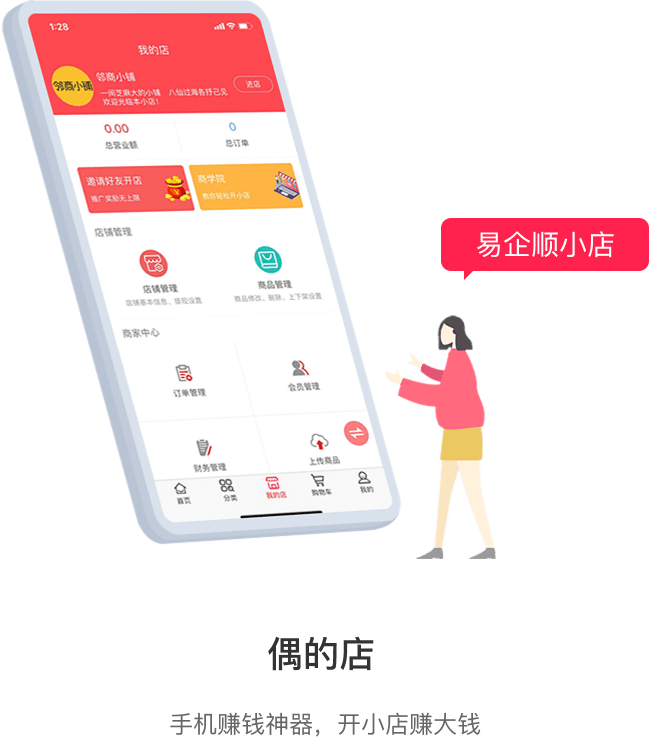
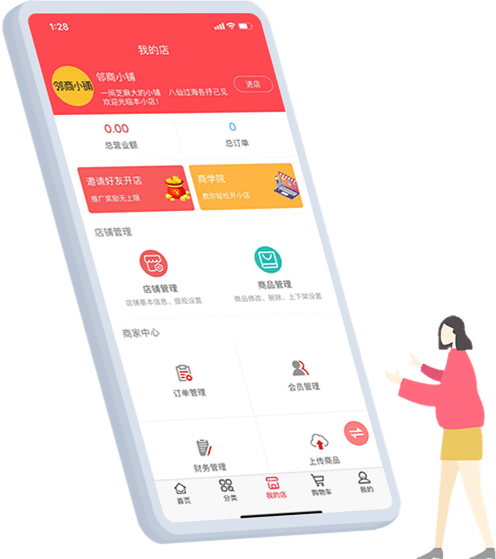
添加动画

Changed region(s): [[0.0, 0.0, 1.0, 1.0], [0.7863, 0.5474, 1.0, 1.0]]

diff --git a/newdownload.html b/newdownload.html
@@ -10,16 +10,16 @@
     <link href="https://cdn.bootcdn.net/ajax/libs/Swiper/5.4.1/css/swiper.min.css" rel="stylesheet" />
     <script src="https://cdn.bootcdn.net/ajax/libs/Swiper/5.4.1/js/swiper.min.js"></script>
     <script src="https://cdn.bootcdn.net/ajax/libs/zepto/1.2.0/zepto.min.js"></script>
+    <link href="https://res.wx.qq.com/open/libs/weui/2.3.0/weui.min.css" rel="stylesheet" type="text/css" />
+    <script src="https://res.wx.qq.com/open/libs/weuijs/1.2.1/weui.min.js"></script>
     <style>
       .invitor {
         font-size: 3.5vw;
         color: #000000;
-        display: none;
-        display: flex;
-        align-items: center;
-        justify-content: center;
         padding: 3vw;
         box-sizing: border-box;
+        text-align: center;
+        display: none;
       }
       .invitor .invitor-img {
         width: 16px;
@@ -52,22 +52,89 @@
       }
       .swiper-container {
         width: 100vw;
-        height: 144vw; /* 540px */
+        height: 135vw; /* 540px */
         background-image: url("./img/downlaod-swiper-bg.png");
         background-position: top center;
         background-size: 100% auto;
         background-repeat: no-repeat;
       }
-      .swiper-slide {
-        text-align: center;
+      .img-wrap {
+        margin-top: 25.3333vw;
+        margin-bottom: 10.133vw;
+        position: relative;
+      }
+      .img-wrap .dialog {
+        background-color: #ff224e;
+        position: absolute;
+        top: 28.8vw;
+        right: 6.66vw;
+        color: #fff;
+        font-size: 3.73vw;
+        padding: 1.8666vw 4.8vw;
+        border-radius: 5px;
+        opacity: 0;
+      }
+      .img-wrap .dialog::after {
+        position: absolute;
+        bottom: -2vw;
+        left: 2vw;
+        content: "";
+        width: 0;
+        height: 0;
+        border-style: solid;
+        border-width: 3vw 2vw 0 2vw;
+        border-color: #ff224e transparent transparent transparent;
       }
       .swiper-img {
-        margin-top: 28vw;
-        width: 86.666vw;
-        height: auto;
+        height: 74.6666vw;
+        width: auto;
+        margin-left: 7vw;
       }
       .swiper-pagination-bullet-active {
         background-color: #ff2541;
+      }
+      .swiper-title {
+        color: #333333;
+        font-size: 4.8vw;
+        margin-bottom: 2vw;
+        font-weight: bold;
+        text-align: center;
+      }
+      .swiper-dec {
+        color: #666666;
+        font-size: 3.2vw;
+        text-align: center;
+      }
+      @keyframes fadeInUp {
+        from {
+          opacity: 0;
+          -webkit-transform: translate3d(0, 100%, 0);
+          transform: translate3d(0, 100%, 0);
+        }
+
+        to {
+          opacity: 1;
+          -webkit-transform: translate3d(0, 0, 0);
+          transform: translate3d(0, 0, 0);
+        }
+      }
+      .animate__fadeInUp {
+        -webkit-animation-name: fadeInUp;
+        animation-name: fadeInUp;
+        animation-duration: 1s;
+        -webkit-animation-duration: 1s;
+        animation-fill-mode: forwards;
+        -webkit-animation-fill-mode: forwards;
+      }
+      .custom-classname {
+        background-color: #4c4c4c;
+      }
+      .weui-toptips {
+        width: 120px;
+        left: 50%;
+        top: 50%;
+        -webkit-transform: translate(-50%, -50%);
+        transform: translate(-50%, -50%);
       }
     </style>
   </head>
@@ -75,19 +142,44 @@
     <div class="swiper-container">
       <div class="swiper-wrapper">
         <div class="swiper-slide">
-          <img class="swiper-img" src="./img/download-swiper1.png" alt="" />
+          <div class="img-wrap">
+            <img class="swiper-img" src="./img/download-swiper1.png" alt="" />
+            <div class="dialog">易企顺小店</div>
+          </div>
+          <div class="swiper-title">偶的店</div>
+          <div class="swiper-dec">手机赚钱神器，开小店赚大钱</div>
         </div>
         <div class="swiper-slide">
-          <img class="swiper-img" src="./img/download-swiper2.png" alt="" />
+          <div class="img-wrap">
+            <img class="swiper-img" src="./img/download-swiper2.png" alt="" />
+            <div class="dialog">超级供应链</div>
+          </div>
+          <div class="swiper-title">没有货源，也可以卖货</div>
+          <div class="swiper-dec">平台提供厂家直供商品，可直接上架到小店</div>
         </div>
         <div class="swiper-slide">
-          <img class="swiper-img" src="./img/download-swiper3.png" alt="" />
+          <div class="img-wrap">
+            <img class="swiper-img" src="./img/download-swiper3.png" alt="" />
+            <div class="dialog">转发给朋友</div>
+          </div>
+          <div class="swiper-title">一键转发，轻松售卖</div>
+          <div class="swiper-dec">分享商品给好友可直接购买</div>
         </div>
         <div class="swiper-slide">
-          <img class="swiper-img" src="./img/download-swiper4.png" alt="" />
+          <div class="img-wrap">
+            <img class="swiper-img" src="./img/download-swiper4.png" alt="" />
+            <div class="dialog">易企顺发货</div>
+          </div>
+          <div class="swiper-title">平台直接发货</div>
+          <div class="swiper-dec">无需进货、发货、平台全部搞定</div>
         </div>
         <div class="swiper-slide">
-          <img class="swiper-img" src="./img/download-swiper5.png" alt="" />
+          <div class="img-wrap">
+            <img class="swiper-img" src="./img/download-swiper5.png" alt="" />
+            <div class="dialog">佣金到账啦</div>
+          </div>
+          <div class="swiper-title">佣金自动结算</div>
+          <div class="swiper-dec">交易完成后，佣金自动结算</div>
         </div>
       </div>
       <div class="swiper-pagination"></div>
@@ -124,23 +216,35 @@
     function copyText() {
       var btnCopy = new ClipboardJS(".invitor");
       btnCopy.on("success", function (e) {
-        alert("已复制");
+        weui.topTips("已复制", {
+          duration: 2000,
+          className: "custom-classname",
+        });
         btnCopy.destroy();
       });
       btnCopy.on("error", function (e) {
-        alert("复制失败");
+        weui.topTips("复制失败", {
+          duration: 2000,
+          className: "custom-classname",
+        });
         btnCopy.destroy();
       });
     }
     var mySwiper = new Swiper(".swiper-container", {
-      autoplay: {
-        delay: 9000,
-        stopOnLastSlide: false,
-        disableOnInteraction: true,
-      },
+      // autoplay: {
+      //   delay: 9000,
+      //   stopOnLastSlide: false,
+      //   disableOnInteraction: true,
+      // },
       loop: true,
       pagination: {
         el: ".swiper-pagination",
+      },
+      on: {
+        slideChangeTransitionEnd: function (e) {
+          $(".dialog").removeClass("animate__fadeInUp");
+          $(".swiper-slide-active .dialog").addClass("animate__fadeInUp");
+        },
       },
     });
   </script>
